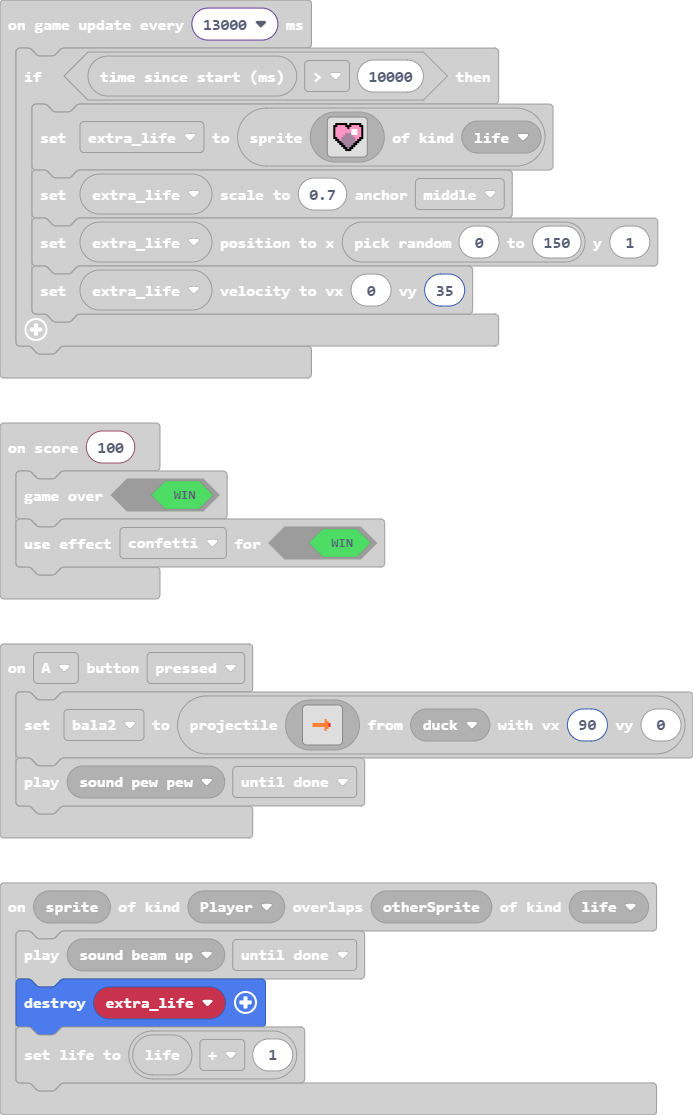
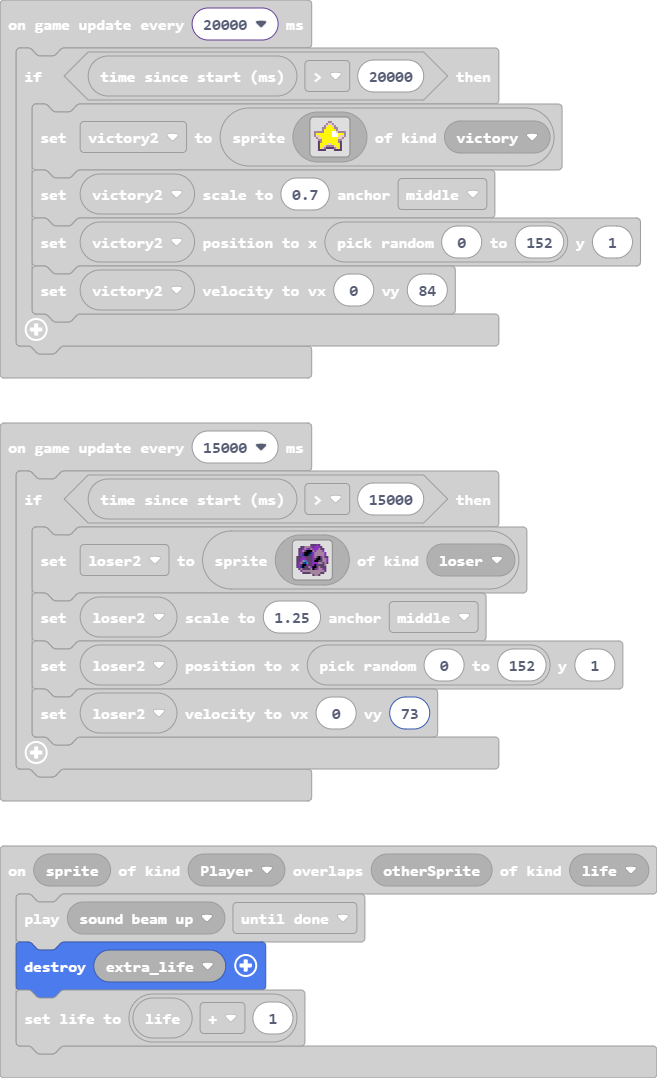
LUCÍA_DÍAZ_POU

Changed region(s): [[0.0, 0.0, 1.0, 0.9796], [0.9437, 0.949, 1.0, 1.0]]

diff --git a/main.ts b/main.ts
@@ -505,7 +505,7 @@ game.onUpdateInterval(15000, function () {
             `, SpriteKind.loser)
         loser2.setScale(1.25, ScaleAnchor.Middle)
         loser2.setPosition(randint(0, 152), 1)
-        loser2.setVelocity(0, 63)
+        loser2.setVelocity(0, 73)
     }
 })
 game.onUpdateInterval(17000, function () {
@@ -587,31 +587,6 @@ game.onUpdateInterval(800, function () {
     mielda.setPosition(randint(0, 152), 1)
     mielda.setVelocity(0, 68)
 })
-game.onUpdateInterval(60000, function () {
-    if (game.runtime() > 20000) {
-        victory2 = sprites.create(img`
-            . . . . . . . b b . . . . . . . 
-            . . . . . . b d d b . . . . . . 
-            . . . . . b d 5 5 d b . . . . . 
-            . . . . b b 5 5 5 5 b b . . . . 
-            . . . . b 5 5 5 5 5 5 b . . . . 
-            b b b b b 5 5 5 5 1 1 d b b b b 
-            b 5 5 5 5 5 5 5 5 1 1 1 5 5 5 b 
-            b d d 5 5 5 5 5 5 1 1 1 5 d d b 
-            . b d d 5 5 5 5 5 5 5 5 d d b . 
-            . . b b 5 5 5 5 5 5 5 5 b b . . 
-            . . c b 5 5 5 5 5 5 5 5 b c . . 
-            . . c 5 5 5 5 d d 5 5 5 5 c . . 
-            . . c 5 5 d b b b b d 5 5 c . . 
-            . . c 5 d b c c c c b d 5 c . . 
-            . . c c c c . . . . c c c c . . 
-            . . . . . . . . . . . . . . . . 
-            `, SpriteKind.victory)
-        victory2.setScale(0.7, ScaleAnchor.Middle)
-        victory2.setPosition(randint(0, 152), 1)
-        victory2.setVelocity(0, 84)
-    }
-})
 game.onUpdateInterval(13000, function () {
     if (game.runtime() > 10000) {
         extra_life = sprites.create(img`
@@ -659,4 +634,29 @@ game.onUpdateInterval(3500, function () {
     comidita_20.setScale(0.7, ScaleAnchor.Middle)
     comidita_20.setPosition(randint(0, 152), 1)
     comidita_20.setVelocity(0, 50)
+})
+game.onUpdateInterval(20000, function () {
+    if (game.runtime() > 20000) {
+        victory2 = sprites.create(img`
+            . . . . . . . b b . . . . . . . 
+            . . . . . . b d d b . . . . . . 
+            . . . . . b d 5 5 d b . . . . . 
+            . . . . b b 5 5 5 5 b b . . . . 
+            . . . . b 5 5 5 5 5 5 b . . . . 
+            b b b b b 5 5 5 5 1 1 d b b b b 
+            b 5 5 5 5 5 5 5 5 1 1 1 5 5 5 b 
+            b d d 5 5 5 5 5 5 1 1 1 5 d d b 
+            . b d d 5 5 5 5 5 5 5 5 d d b . 
+            . . b b 5 5 5 5 5 5 5 5 b b . . 
+            . . c b 5 5 5 5 5 5 5 5 b c . . 
+            . . c 5 5 5 5 d d 5 5 5 5 c . . 
+            . . c 5 5 d b b b b d 5 5 c . . 
+            . . c 5 d b c c c c b d 5 c . . 
+            . . c c c c . . . . c c c c . . 
+            . . . . . . . . . . . . . . . . 
+            `, SpriteKind.victory)
+        victory2.setScale(0.7, ScaleAnchor.Middle)
+        victory2.setPosition(randint(0, 152), 1)
+        victory2.setVelocity(0, 84)
+    }
 })
